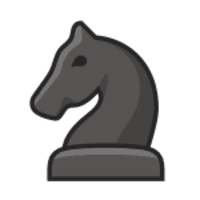
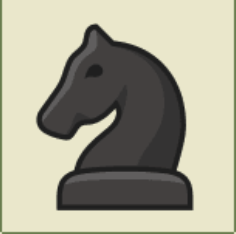
Apply thresholding to non-transparent images for chess piece masking

diff --git a/board_destroyer.py b/board_destroyer.py
@@ -2,7 +2,8 @@ import cv2
 import numpy as np
 from imutils.object_detection import non_max_suppression
 
-img_board = cv2.imread("assets/cb.png")
+# TODO: save images in memory after loading them to save computing time
+img_board = cv2.imread("assets/cb2.png")
 img_board_gray = cv2.cvtColor(img_board, cv2.COLOR_BGR2GRAY)
 
 piece_names = {
@@ -13,11 +14,11 @@ piece_names = {
     # "white_knight": "N",
     # "white_pawn": "P",
     "black_king": "k",
-    "black_queen": "q",
-    "black_rook": "r",
-    "black_bishop": "b",
+    # "black_queen": "q",
+    # "black_rook": "r",
+    # "black_bishop": "b",
     "black_knight": "n",
-    "black_pawn": "p",
+    # "black_pawn": "p",
 }
 
 
@@ -26,31 +27,24 @@ def find_piece(board, piece):
     img_piece_gray = cv2.cvtColor(img_piece, cv2.COLOR_BGR2GRAY)
 
     h, w = img_piece_gray.shape
-    mask = img_piece[:, :, 3]
 
-    res = cv2.matchTemplate(board, img_piece_gray, cv2.TM_SQDIFF_NORMED, mask=mask)
-    loc = np.where(res <= 0.1)
+    img_piece_inverted = cv2.bitwise_not(img_piece_gray)
+    _, mask = cv2.threshold(img_piece_inverted, 150, 255, cv2.THRESH_BINARY)
 
-    rects = [(x, y, x + w, y + h) for x, y in zip(*loc[::-1])]
+    matches = cv2.matchTemplate(board, img_piece_gray, cv2.TM_SQDIFF_NORMED, mask=mask)
+    locs = np.where(matches <= 0.1)
+
+    rects = [(x, y, x + w, y + h) for x, y in zip(*locs[::-1])]
 
     return non_max_suppression(np.array(rects))
 
 
 # Highlight all pieces
-# for piece_name in piece_names.keys():
-#     print(piece_name)
-#     pieces = find_piece(img_board_gray, piece_name)
-#     for r in pieces:
-#         x, y, h, w = r
-#         cv2.rectangle(img_board, (x, y), (h, w), (0, 0, 255), 5)
+for piece_name in piece_names.keys():
+    pieces = find_piece(img_board_gray, piece_name)
+    for piece in pieces:
+        x, y, h, w = piece
+        cv2.rectangle(img_board, (x, y), (h, w), (0, 0, 255), 5)
 
-# Testing one piece
-# pieces = find_piece(img_board_gray, "black_pawn")
-# for r in pieces:
-#     x, y, h, w = r
-#     cv2.rectangle(img_board, (x, y), (h, w), (0, 0, 255), 5)
-
-cv2.imshow("Chess", img_board_gray)
-cv2.waitKey()
-cv2.imshow("Chess", cv2.imread("assets/white_pawn.png", 0))
+cv2.imshow("Chess", img_board)
 cv2.waitKey()

diff --git a/test.py b/test.py
@@ -1,0 +1,54 @@
+import cv2
+import numpy as np
+
+# Load the chess board and chess piece images
+img_board = cv2.imread('assets/cb.png')
+img_piece = cv2.imread('assets/black_pawn.png', cv2.IMREAD_UNCHANGED)
+
+mask = img_piece[:,:,3] # use the inverted transparency channel for mask
+
+
+# Convert both images to grayscale
+img_board_gray = cv2.cvtColor(img_board, cv2.COLOR_BGR2GRAY)
+img_piece_gray = cv2.cvtColor(img_piece, cv2.COLOR_BGR2GRAY)
+h, w = img_piece_gray.shape
+
+# Apply morphological operations to extract the chess piece from the board
+#kernel = np.ones((5, 5), np.uint8)
+#img_piece_mask = cv2.erode(img_piece_gray, kernel, iterations=1)
+#img_piece_mask = cv2.dilate(img_piece_mask, kernel, iterations=1)
+
+
+result = cv2.matchTemplate(img_board_gray, img_piece_gray, cv2.TM_SQDIFF_NORMED, mask=mask)
+min_val, max_val, min_loc, max_loc = cv2.minMaxLoc(result)
+
+while min_val < 0.1:
+
+    # Draw a rectangle around the matching location
+    top_left = min_loc
+    bottom_right = (top_left[0] + img_piece.shape[1], top_left[1] + img_piece.shape[0])
+    cv2.rectangle(img_board, top_left, bottom_right, (0, 0, 255), 2)
+
+    #overwrite the portion of the result that has the match:
+    h1 = top_left[1]-h//2
+    h1 = np.clip(h1, 0, result.shape[0])
+
+    h2 = top_left[1] + h//2 + 1
+    h2 = np.clip(h2, 0, result.shape[0])
+
+    w1 = top_left[0] - w//2
+    w1 = np.clip(w1, 0, result.shape[1])
+
+    w2 = top_left[0] + w//2 + 1
+    w2 = np.clip(w2, 0, result.shape[1])
+    result[h1:h2, w1:w2] = 1  # poison the result in the vicinity of this match so it isn't found again
+
+    # look for next match
+    min_val, max_val, min_loc, max_loc = cv2.minMaxLoc(result)
+
+cv2.imwrite('output.png', img_board)
+
+# Show the result
+cv2.imshow('Result', img_board)
+cv2.waitKey(0)
+cv2.destroyAllWindows()

diff --git a/tempCodeRunnerFile.py b/tempCodeRunnerFile.py
@@ -1,0 +1,2 @@
+mg_piece)
+    cv2.waitKey()
